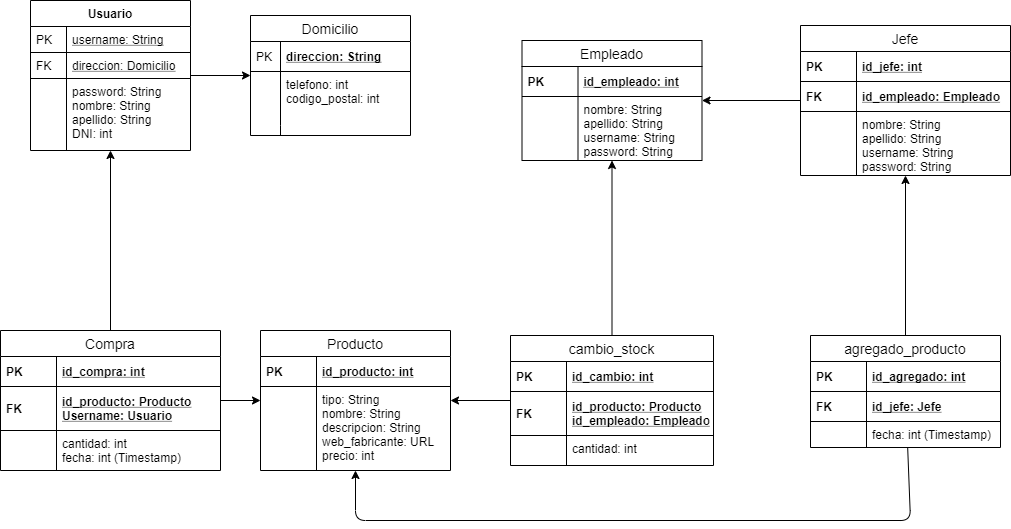
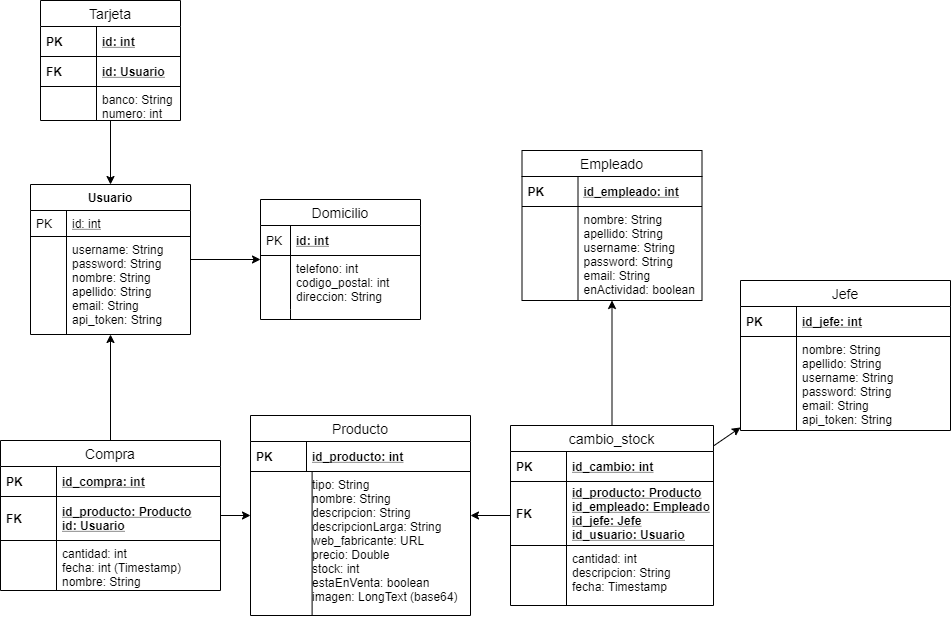
Api
- Agregar productos desde la API ahora usa autentificación de jefe, solo los jefes pueden agregar productos.

diff --git a/routes/api.php b/routes/api.php
@@ -18,7 +18,7 @@ use Illuminate\Support\Facades\Route;
 Route::middleware('auth:api')->get('/user', function (Request $request) {
     return $request->user();
 });
-Route::get('/productos', 'ApiProductosController@index')->name('api.productos.todos')->middleware('auth:api');
+Route::get('/productos', 'ApiProductosController@index')->name('api.productos.todos');
 Route::get('/productos/{id}', 'ApiProductosController@show')->name('api.productos.id');
 
 // Borrar si no andan
@@ -27,7 +27,7 @@ Route::get('/productos/{id}', 'ApiProductosController@show')->name('api.producto
 
 
 Route::get('/productos/{id}', 'ApiProductosController@show')->name('api.productos.id');
-Route::post('/productos/agregar', 'ApiProductosController@storeCustom')->name('api.productos.agregar')->middleware('auth:api');
+Route::post('/productos/agregar', 'ApiProductosController@storeCustom')->name('api.productos.agregar')->middleware('auth:jefe-api');
 Route::resource('productos', 'ApiProductosController');
 
 

diff --git a/app/Providers/ObserverServiceProvider.php b/app/Providers/ObserverServiceProvider.php
@@ -3,7 +3,9 @@
 namespace App\Providers;
 
 use App\User;
+use App\Jefe;
 use App\Observers\UserObserver;
+use App\Observers\JefeObserver;
 use Illuminate\Support\ServiceProvider;
 
 class ObserverServiceProvider extends ServiceProvider
@@ -26,5 +28,6 @@ class ObserverServiceProvider extends ServiceProvider
     public function boot()
     {
         User::observe(UserObserver::class);
+        Jefe::observe(JefeObserver::class);
     }
 }

diff --git a/app/Jefe.php b/app/Jefe.php
@@ -44,5 +44,13 @@ class Jefe extends Authenticatable
     public function sendPasswordResetNotification($token){
         $this->notify(new JefeResetPasswordNotification($token));
     }
+
+    public function generateToken()
+    {
+        $this->api_token = Str::random(60);
+        $this->save();
+
+        return $this->api_token;
+    }
 }
 

diff --git a/app/Observers/JefeObserver.php b/app/Observers/JefeObserver.php
@@ -1,0 +1,19 @@
+<?php
+
+namespace App\Observers;
+
+use App\Jefe;
+
+class JefeObserver
+{
+    /**
+     * Handle the User creating event.
+     *
+     * @param  \App\Jefe  $jefe
+     * @return void
+     */
+    public function creating(Jefe $jefe)
+    {
+        $jefe->api_token=bin2hex(openssl_random_pseudo_bytes(30));
+    }
+}

diff --git a/database/migrations/2020_06_14_185153_create_jefes_table.php b/database/migrations/2020_06_14_185153_create_jefes_table.php
@@ -21,6 +21,7 @@ class CreateJefesTable extends Migration
             $table->string('username')->unique();
             $table->string('password');
             $table->rememberToken();      /* Ver si funciona con esto, borrar caso contrario */
+            $table->string('api_token', 60)->unique();
         });
     }
 

diff --git a/database/seeds/JefesSeeder.php b/database/seeds/JefesSeeder.php
@@ -21,6 +21,7 @@ class JefesSeeder extends Seeder
         $jefe->username = 'JaviM';
         $jefe->email = 'jefecito@jefe.com';
         $jefe->password = Hash::make('jefe');
+        $jefe->api_token = bin2hex(openssl_random_pseudo_bytes(30));
         $jefe->save();
         
     }
